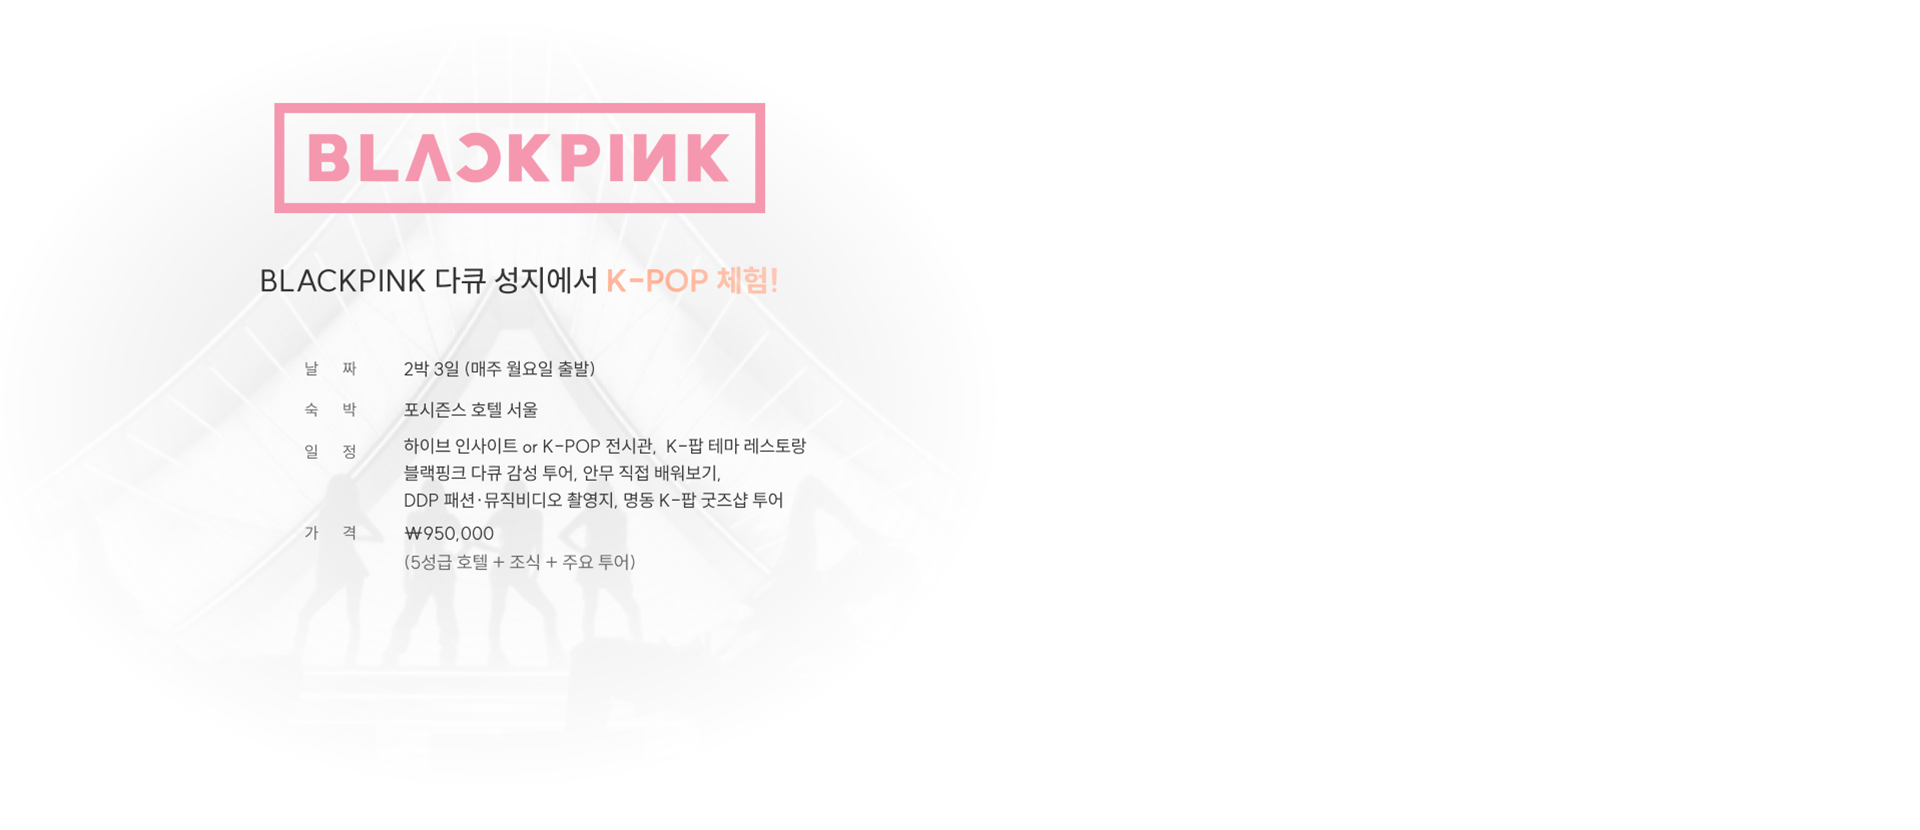
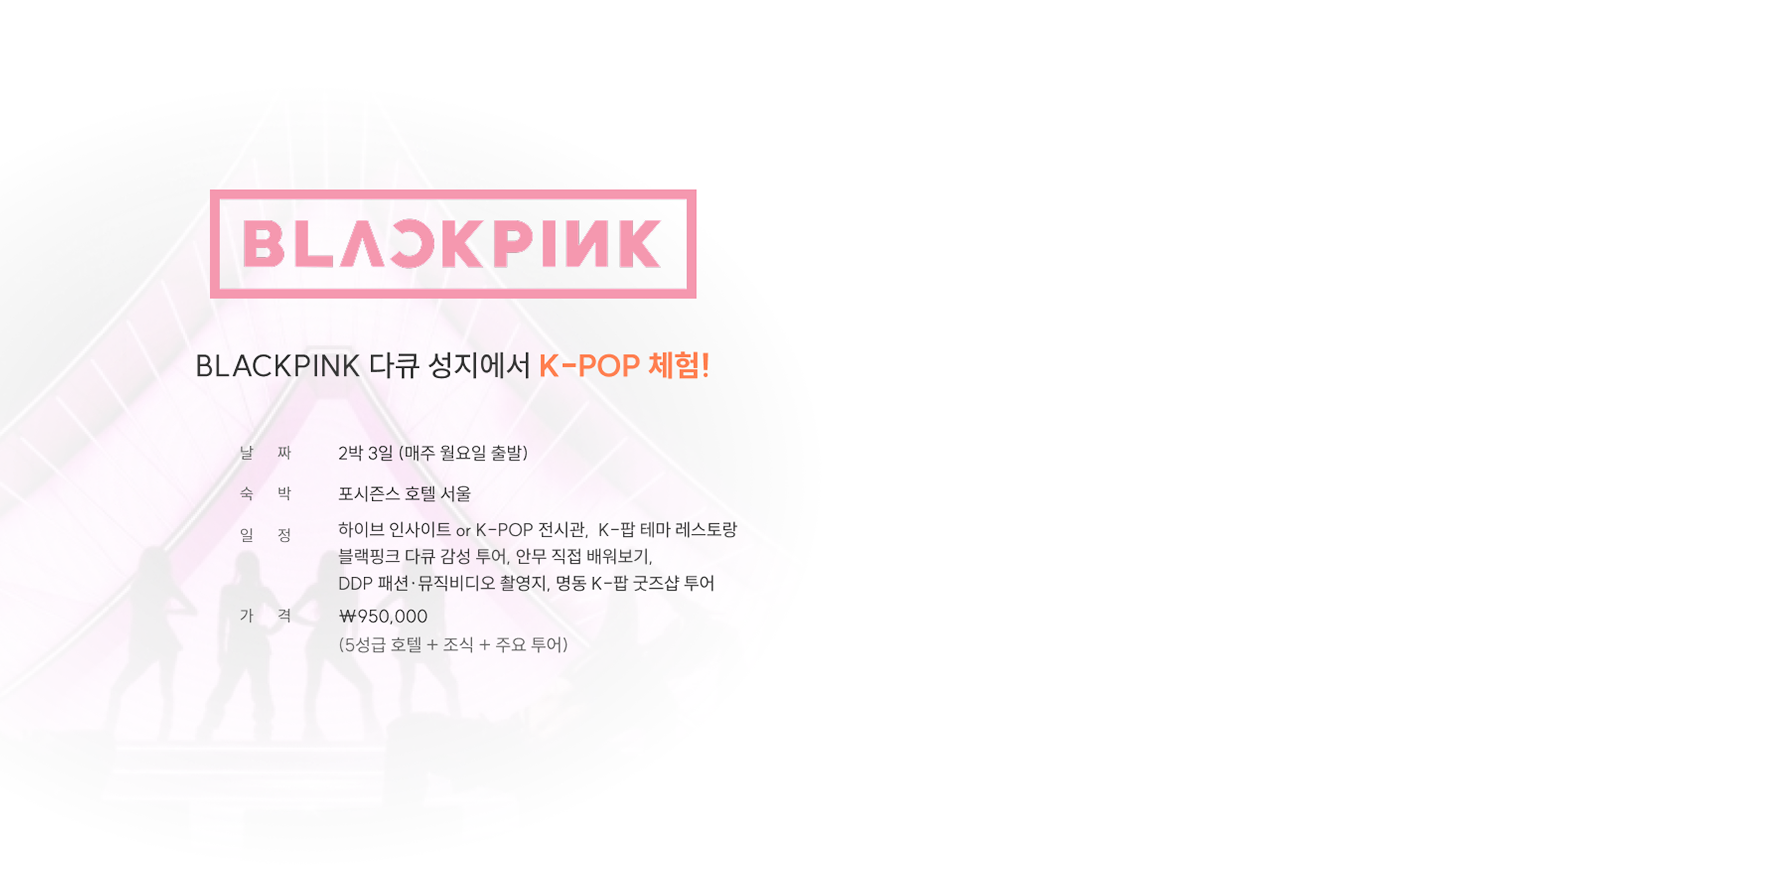
contet1 이미지변경

Changed region(s): [[0.0921, 0.1205, 0.3992, 0.3614], [0.1535, 0.4819, 0.4299, 0.753], [0.0921, 0.3916, 0.3992, 0.4518]]

diff --git a/src/components/home/content1/component/style.scss b/src/components/home/content1/component/style.scss
@@ -16,11 +16,12 @@
       width: 100%;
       height: auto;
       object-fit: cover;
+      position: relative;
     }
     .re-button {
       position: absolute;
-      top: vw(660px);
-      left: 32%;
+      top: vw(730px);
+      left: 25%;
       background: $mint;
       color: $white;
       width: vw(180px);
@@ -43,8 +44,8 @@
 
   .right {
     position: absolute;
-    right: 240px;
-    top: -70px;
+    right: 280px;
+    top: 70px;
     .display-img {
       width: 700px;
       height: auto;

diff --git a/src/components/home/content3/Content3.jsx b/src/components/home/content3/Content3.jsx
@@ -142,7 +142,6 @@ const Carousel = () => {
           <div key={d.id} className="carousel-item">
             <div className="carousel-box">
               <div className="title">{d.title}</div>
-              <div className="num">{d.num}</div>
               <img src={d.img} alt={d.title} />
             </div>
           </div>

diff --git a/src/components/home/content1/style.scss b/src/components/home/content1/style.scss
@@ -4,7 +4,7 @@
   width: 100%;
 
   .inner {
-    margin-bottom: 0;
+    padding-bottom: 20px !important;
     .title-wrap {
       position: relative;
       display: inline-block;
